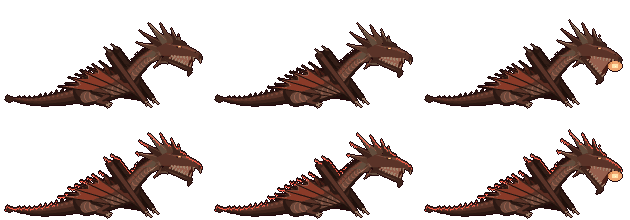
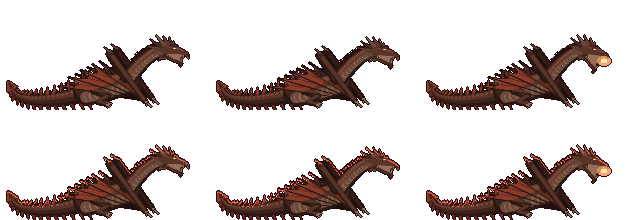
와이번 머리를 몸에 맞게 줄이고 날개 핏줄 · 지느러미 꼬리 · 앞으로 펼친 먼 날개를 더한다
Claude-Session: https://claude.ai/code/session_01Q8g6pWdFRXf9kPebAnvFCB

diff --git a/src/game/wyvernPxData.js b/src/game/wyvernPxData.js
@@ -7,8 +7,8 @@ export const WYVERN_PX_SRC = "/assets/game/rpg/effects/hidden-jobs/wyvern/px/";
 export const WYVERN_PX = {
   wy_claw: { w: 112, h: 96, cols: 6, n: 6, cx: 10, cy: 48, r: 88 },   // 용조격 — 굵은 발톱 참격 세 줄(11월 18일 다시 그림, 기준점 = 손, 그림 속 반지름 r)
   wy_hit: { w: 64, h: 64, cols: 8, n: 8, cx: 32, cy: 32 },   // 타격 — 흰 섬광 · 가시 여덟 · 불꽃 고리 · 불씨(11월 18일)
-  wy_wyvern: { w: 244, h: 232, cols: 7, n: 7, cx: 140, cy: 110, rows: 2, mouth: [67, 20] },   // 와이번 옆모습(오른쪽, 1배) — 11월 18일 사용자 자세 참고 그림대로 0 날개 위 · 1 내리침 · 2 날개 아래 · 3 올림 · 4~6 불 뿜기(design/effects/wyvern/pose.py). 줄 0 그대로 · 1 연마 75 붉은 선
-  wy_sit: { w: 210, h: 110, cols: 3, n: 3, cx: 122, cy: 104, rows: 2, mouth: [73, -38] },   // 앉은 와이번(1배, 기준점 = 몸 아래 땅) — 몸을 낮게 엎드려 접은 날개 팔로 앞을 짚고 목을 든 자세(11월 18일 사용자 참고 그림) · 0 · 1 숨쉬기 · 2 앉아서 불 뿜기
+  wy_wyvern: { w: 244, h: 232, cols: 7, n: 7, cx: 140, cy: 110, rows: 2, mouth: [57, 13] },   // 와이번 옆모습(오른쪽, 1배) — 11월 18일 사용자 자세 참고 그림대로 0 날개 위 · 1 내리침 · 2 날개 아래 · 3 올림 · 4~6 불 뿜기(design/effects/wyvern/pose.py). 줄 0 그대로 · 1 연마 75 붉은 선
+  wy_sit: { w: 210, h: 110, cols: 3, n: 3, cx: 122, cy: 104, rows: 2, mouth: [62, -43] },   // 앉은 와이번(1배, 기준점 = 몸 아래 땅) — 몸을 낮게 엎드려 접은 날개 팔로 앞을 짚고 목을 든 자세(11월 18일 사용자 참고 그림) · 0 · 1 숨쉬기 · 2 앉아서 불 뿜기
   wy_shade: { w: 122, h: 24, cols: 4, n: 4, cx: 61, cy: 12, loop: 1 },   // 땅에 비친 와이번 그림자 — 날갯짓 4칸
   wy_ball: { w: 20, h: 20, cols: 4, n: 4, cx: 12, cy: 10, loop: 1 },   // 와이번 화염탄(오른쪽으로 난다)
   wy_sigil: { w: 96, h: 56, cols: 8, n: 8, cx: 48, cy: 28 },   // 소환 문양 — 0~3 나타남 · 4~7 반복

diff --git a/src/game/wyvernData.js b/src/game/wyvernData.js
@@ -47,10 +47,10 @@ export const WY_CLAW = { name: "용조격", gap: 0.55, reach: 160, arc: (95 / 2)
    hz 나는 높이(화면 px) · spd 따라가는 빠르기 · v 화염탄 빠르기 · back 주인 뒤 거리 · side 옆 거리 — 정한 값 */
 export const WY_CONTRACT = { name: "비룡의 계약", cost: 30, cd: 15, dur: 30, dur50: 40, gap: 1.5, mul: 3.0, mul25: 4.0, seek: 500, sp25: 25, sp50: 50,
   back: [60, 120], far: 650, appear: 0.45, hz: 74, spd: 340, v: 620,
-  mouth: [67, 20],
+  mouth: [57, 13],
   // 앉기(11월 18일 사용자 "움직이지 않을 때는 앉아있는 모습") — 빠르기 speed(px/초) 아래로 wait 초 머물면 time 초에 걸쳐 내려앉고, 움직이면 같은 빠르기로 날아오른다.
   // sitMouth — 앉은 그림의 입 자리(땅 기준 화면 px, wy_sit 시트와 같다). 정한 값
-  sit: { speed: 20, wait: 0.6, time: 0.45, mouth: [73, -38] } };   // 화염탄이 나가는 입 자리(와이번 자리에서 화면 px) — wy_wyvern · wy_sit 시트의 mouth 와 같다(11월 18일 자세 그림)
+  sit: { speed: 20, wait: 0.6, time: 0.45, mouth: [62, -43] } };   // 화염탄이 나가는 입 자리(와이번 자리에서 화면 px) — wy_wyvern · wy_sit 시트의 mouth 와 같다(11월 18일 자세 그림)
 
 /* 용염 포효(직업 레벨 15) — 용혈 15 · 대기 9초 · 앞 350 · 부채꼴 90° · 0.15~0.90초 화염 박동 5번 ×3.0(합 ×15) · 맞히면 용혈 +10(시전당 한 번).
    1부 요약 — 포탈에서 용의 머리가 나와 앞으로 불을 뿜는다. 역린 해방 중 폭 +50%.

diff --git a/design/effects/wyvern/pose.py b/design/effects/wyvern/pose.py
@@ -5,7 +5,7 @@ import math
 from PIL import Image, ImageDraw
 
 SS = 4   # 4배로 그려 줄인다
-HEAD_K = 1.2   # 머리 크기 — 11월 18일 사용자 "얼굴 비교해서" 로 1.0 → 1.2
+HEAD_K = 0.8   # 머리 크기 — 11월 18일 사용자 "머리가 너무 커 비율 생각하면서" 로 1.2 → 0.8(참고 그림들처럼 머리는 몸통 길이의 절반쯤)
 def C(h): h = h.lstrip("#"); return (int(h[0:2], 16), int(h[2:4], 16), int(h[4:6], 16), 255)
 def dk(c, k): return (int(c[0] * k), int(c[1] * k), int(c[2] * k), 255)
 BODY = [C("#2a1813"), C("#3f241c"), C("#5a3328"), C("#77473a"), C("#93604f")]   # 몸 비늘 어둠 → 밝음
@@ -56,6 +56,20 @@ class Pose:
                 r = rad[i]; h = r * 0.5 + 1.0
                 s.poly([(x + nx * r * 0.8 - dx / L * 1.4, y + ny * r * 0.8 - dy / L * 1.4), (x + nx * (r + h) - dx / L * 2.2, y + ny * (r + h) - dy / L * 2.2), (x + nx * r * 0.8 + dx / L * 1.2, y + ny * r * 0.8 + dy / L * 1.2)], SPIKE)
         return pts, rad
+    def fin_tail(s, path, r0):
+        """꼬리 — 등 가시에 더해 양옆으로 잎 모양 지느러미가 줄지어 나고(참고 그림의 붉은 꼬리 깃), 끝은 지느러미 둘이 달린 창날"""
+        pts = bez(path, 18); n = len(pts)
+        for i in range(4, n - 3, 5):   # 지느러미 — 몸통 뒤에 먼저
+            (ax, ay), (bx, by) = pts[i - 1], pts[i + 1]; x, y = pts[i]
+            dx, dy = bx - ax, by - ay; L = math.hypot(dx, dy) or 1; dx, dy = dx / L, dy / L; nx, ny = dy, -dx
+            if ny > 0: nx, ny = -nx, -ny
+            r = r0 * (1 - i / n) + 1.2; h = 2.5 + r * 0.9
+            for sg, col in ((1, MEM[2]), (-1, MEM[1])):
+                s.poly([(x + dx * 2.2, y + dy * 2.2), (x + sg * nx * (r + h) - dx * 3.5, y + sg * ny * (r + h) - dy * 3.5), (x - dx * 3, y - dy * 3)], col)
+        s.tube(path, r0, 1.2, BODY, spikes=4)
+        (ax, ay), (x, y) = pts[-4], pts[-1]; dx, dy = x - ax, y - ay; L = math.hypot(dx, dy) or 1; dx, dy = dx / L, dy / L; nx, ny = dy, -dx
+        s.poly([(x - dx * 1, y - dy * 1), (x + nx * 6 - dx * 2, y + ny * 6 - dy * 2), (x + dx * 9, y + dy * 9), (x - nx * 6 - dx * 2, y - ny * 6 - dy * 2)], MEM[2])   # 창날 끝 지느러미
+        s.poly([(x, y), (x + nx * 2.5, y + ny * 2.5), (x + dx * 8, y + dy * 8), (x - nx * 2.5, y - ny * 2.5)], BODY[1])
     def limb(s, pts, r0, r1, pal):
         for i in range(len(pts) - 1):
             (x0, y0), (x1, y1) = pts[i], pts[i + 1]; n = max(8, int(math.hypot(x1 - x0, y1 - y0) * 2))
@@ -98,6 +112,21 @@ class Pose:
         s.poly([sh, el, wr, (root[0] * 0.5 + wr[0] * 0.5, root[1] * 0.5 + wr[1] * 0.5), root], pal[1])
         for i in range(len(edge) - 1):   # 가장자리 안쪽 옅은 테(얇은 막이 빛에 비친다)
             s.line([edge[i], edge[i + 1]], pal[4], 1.0)
+        # 핏줄 · 줄무늬(참고 그림 — 손가락 뼈에서 막 가장자리로 갈라지는 굵고 가는 줄)
+        bones = list(tips) + [root]
+        for i in range(len(bones) - 1):
+            a, b2 = bones[i], bones[i + 1]
+            for k, t in enumerate((0.35, 0.6, 0.82)):
+                p0 = (wr[0] + (a[0] - wr[0]) * t, wr[1] + (a[1] - wr[1]) * t)
+                q = 0.45 + 0.12 * k; p1 = (a[0] + (b2[0] - a[0]) * q, a[1] + (b2[1] - a[1]) * q)
+                p1 = (p0[0] + (p1[0] - p0[0]) * 0.75, p0[1] + (p1[1] - p0[1]) * 0.75)
+                pm = ((p0[0] + p1[0]) / 2 + (wr[0] - p0[0]) * 0.06, (p0[1] + p1[1]) / 2 + (wr[1] - p0[1]) * 0.06)
+                s.line([p0, pm, p1], pal[0], 0.9 if k == 1 else 0.6)
+        mk = ImageDraw.Draw(mask)
+        for i in range(2, len(edge) - 2, 3):   # 해진 가장자리 — 막 끝에 작은 찢김
+            ex, ey = edge[i]; cx_, cy_ = wr
+            dx, dy = cx_ - ex, cy_ - ey; L = math.hypot(dx, dy) or 1; dx, dy = dx / L * 3.2, dy / L * 3.2
+            if (i // 3) % 2: mk.polygon([s.P(ex - dy * 0.35, ey + dx * 0.35), s.P(ex + dx, ey + dy), s.P(ex + dy * 0.35, ey - dx * 0.35)], fill=0)
         lay = s.im; lay.putalpha(Image.composite(lay.getchannel("A"), Image.new("L", lay.size), mask))
         main.alpha_composite(lay); s.im, s.d = main, mdraw
         # 뼈 — 팔(굵게) · 손가락(가늘게)
@@ -122,7 +151,7 @@ class Pose:
         crest = [(-6, 2, 12, 0.35), (-4, -2, 16, -0.2), (-1, -5, 19, -0.5), (3, -7, 20, -0.75), (7, -8, 16, -0.95), (11, -8, 11, -1.15), (14, -7, 7, -1.3),
                  (-3, 4, 11, 0.6), (0, 6, 9, 0.9)]
         for k, (u, v, L, a_) in enumerate(crest):
-            d = math.pi - a_; L *= 1.25; tx, ty = u + math.cos(d) * L, v + math.sin(d) * L   # 뒤쪽(왼쪽)으로, a_ 가 음수면 위 · 양수면 아래로 기운다
+            d = math.pi - a_; L *= 1.0; tx, ty = u + math.cos(d) * L, v + math.sin(d) * L   # 뒤쪽(왼쪽)으로, a_ 가 음수면 위 · 양수면 아래로 기운다
             w = 1.8 + L * 0.1; nx, ny = -math.sin(d) * w, math.cos(d) * w
             bend = (u + math.cos(d) * L * 0.6 - nx * 0.4, v + math.sin(d) * L * 0.6 - ny * 0.4 - 1)
             s.poly([R(u + nx, v + ny), R(*bend), R(tx, ty), R(u - nx, v - ny)], HORN[0] if k % 3 == 0 else (BONE[2] if k % 3 == 1 else DK))
@@ -180,12 +209,15 @@ def fly_pose(f, gape=0.0):
     s = Pose(FLY_W, FLY_H, FLY_OX, FLY_OY)
     wg = WINGS[f]; lift = FLY_TILT[f]
     def W(p, k=1.0, off=(0, 0)): return (SH[0] + p[0] * k + off[0], SH[1] + p[1] * k + off[1] + lift)
-    far = dict(sh=W((0, 0), 1, (8, -3)), el=W(wg["el"], 0.82, (8, -3)), wr=W(wg["wr"], 0.82, (8, -3)), tips=[W(t, 0.82, (8, -3)) for t in wg["tips"]], root=W(wg["root"], 0.82, (8, -3)))
+    if f == 2:   # 내리친 날개 — 먼 날개는 가까운 날개 뒤에 겹친다
+        far = dict(sh=W((0, 0), 1, (8, -3)), el=W(wg["el"], 0.82, (8, -3)), wr=W(wg["wr"], 0.82, (8, -3)), tips=[W(t, 0.82, (8, -3)) for t in wg["tips"]], root=W(wg["root"], 0.82, (8, -3)))
+    else:        # 펼친 날개 — 참고 그림처럼 먼 날개는 머리 쪽(앞)으로 펼쳐져 보인다(가까운 날개를 좌우로 뒤집어 줄임)
+        def Fw(p): return (SH[0] + 8 - p[0] * 0.72, SH[1] - 3 + p[1] * 0.8 + lift)
+        far = dict(sh=Fw((0, 0)), el=Fw(wg["el"]), wr=Fw(wg["wr"]), tips=[Fw(t) for t in wg["tips"]], root=(SH[0] + 14, SH[1] + 4 + lift))
     s.wing(far["sh"], far["el"], far["wr"], far["tips"], far["root"], MEM, BONE, 0.62)
     wav = [0, 2, 0, -2][f]
-    tail = [(-30, 3 + lift), (-60, 6 + lift + wav), (-90, 2 + lift - wav), (-112, -4 + lift + wav)]
-    s.tube(tail, 7, 1.2, BODY, spikes=4)
-    tip = tail[-1]; s.poly([(tip[0] + 2, tip[1]), (tip[0] - 7, tip[1] - 4), (tip[0] - 9, tip[1] + 1), (tip[0] - 5, tip[1] + 4)], BODY[1])   # 꼬리 끝 가시
+    tail = [(-30, 3 + lift), (-62, 8 + lift + wav), (-94, 4 + lift - wav), (-118, -2 + lift + wav), (-128, -8 + lift)]   # 길게 물결치는 지느러미 꼬리
+    s.fin_tail(tail, 7)
     s.leg((-24, 6 + lift), (-18, 15 + lift), (-30, 20 + lift), (-36, 22 + lift), -1)   # 뒷다리 — 뒤로 접어 붙인다
     s.tube([(-36, 2 + lift), (-12, 1 + lift), (8, -2 + lift)], 12, 10, BODY, belly=BELLY, spikes=3)
     neck = [(6, -4 + lift), (20, -12 + lift), (36, -16 + lift)]
@@ -211,9 +243,8 @@ def sit_pose(breath=0, gape=0.0):
         s.dot(el[0], el[1], 2.6, pal[1]); s.poly([(el[0] - 1, el[1] - 2), (el[0] - 7, el[1] - 8), (el[0] + 2, el[1] - 2)], HORN[0])   # 팔꿈치 가시
         s.claws(wr[0] + 1, wr[1] + 1, 1, 3, 5)
     fold((7, -3), 0.62)                                                     # 먼 날개
-    tail = [(-34, -12), (-60, -6), (-86, -3), (-108, -5)]
-    s.tube(tail, 8, 1.2, BODY, spikes=4)
-    t = tail[-1]; s.poly([(t[0] + 2, t[1]), (t[0] - 7, t[1] - 4), (t[0] - 9, t[1] + 1), (t[0] - 5, t[1] + 3)], BODY[1])
+    tail = [(-34, -12), (-60, -6), (-86, -4), (-104, -8), (-110, -16)]   # 땅을 따라 눕다 끝이 들린다
+    s.fin_tail(tail, 8)
     s.leg((-24, -14), (-12, -10), (-22, -3), (-14, -1), 1)                  # 먼 뒷다리
     s.tube([(-36, -14 + b * 0.4), (-14, -18 + b), (8, -24 + b)], 13, 11, BODY, belly=BELLY, spikes=3)
     neck = [(6, -26 + b), (18, -40 + b), (30, -50 + b), (40, -54 + b)]
